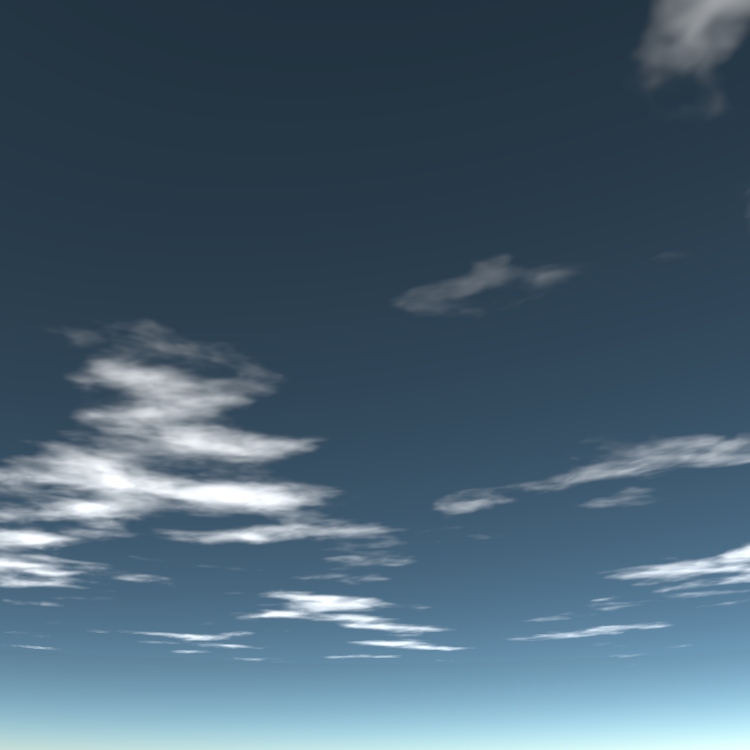
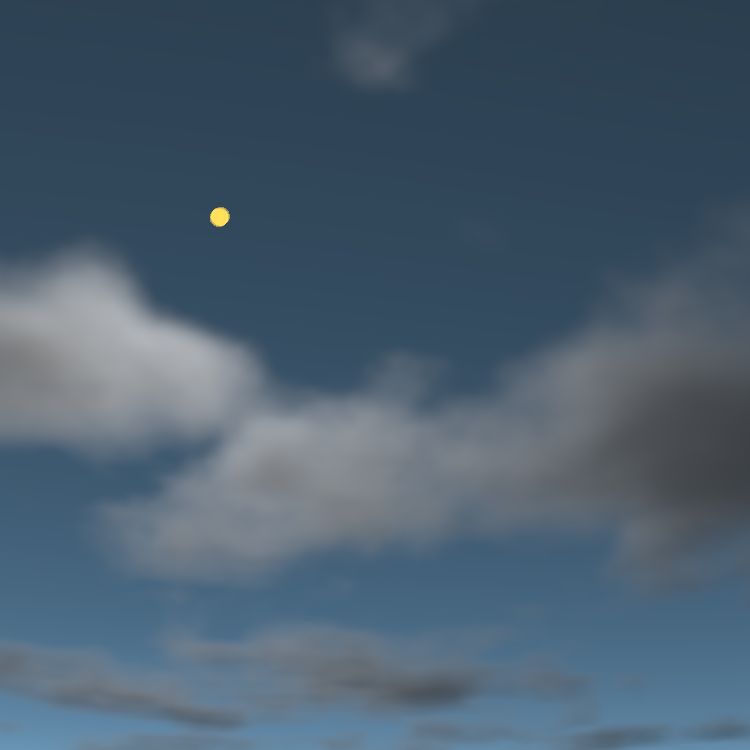
edit post

diff --git a/_posts/scene/2025-02-17-procedural.md b/_posts/scene/2025-02-17-procedural.md
@@ -112,8 +112,8 @@ Lo = ∫all_line_dx|TS dx #(该T沿着视线减弱)
 # S(p) = s(p)∫all_sphere|ρLi dv
 ```
 问题是内散射积分S中的使用的光线是什么？(甚至我们正在计算天空光线)。  
-下列给出评估它的方式，有关这一点的区别和影响，笔者不再深入研究。  
-要点是每个S中必须重新计算ro到太阳的T，这需要一条完整的子射线完成。  
+下列给出评估它的方式，有关这一点的区别和影响。笔者研究发现，该点全局照明评估成本过高。  
+这种方法是一种近似，即对准太阳投射子射线得到另一个透射率来衰减一个固定光亮，以近似S项需要的积分辐射度，因此要点是每个S中必须重新计算ro到太阳的T。  
 ```ruby
 S -> SunBase * T2(sun_dx_line); #(沿着太阳减弱)
   -> SunBase * T2(sun_dx_line) * ρ
@@ -316,6 +316,26 @@ Cumulus  堆(积)云
 一种最古老的实现是粗暴地将FBM数据映射到一个薄薄的球面上，结果是极其不真实的，并且与我们使用的其他真实技术产生严重的不协调感。  
 样本、噪声、位置全都不符合任何一种云的特征。我们至少应该拒绝这种技术并认为最根本的起点必须选择更好的"容器"来表达FBM，至少不能是平面！尽管此FBM可能只能类似地接近一种云，但这至少是合理的并且让我们感到满意的一个开始。  
 卷须云的体积可能更难，因此最终决定致力于一种简单形状云的实现。积云符合一般人对云的直觉。  
+
+相反，我们使用体积渲染一个环状空间。从技术上讲，透射必须合并背景大气，因此对Sky的调用成本会增加非常多。有时分为两个函数是有意义的。  
+```ruby
+∫all_line_dx|TS dx
+                    # Li随着深度衰减
+approximate S = βS*ρ ∫(C * T2)
+
+~= ρC ∫(T1βST2)dx
+
+# clamp((vec3(1.0) * phase * integral), vec3(0.0), vec3(1.0)) + sky * exp(-tmp_t);
+```
+<div class="x gr txac">
+  <div class="x la flex mg0">
+    <div class="x la item6-lg item12 pd0">
+      <img src="/assets/i/6-2.png">
+    </div>
+  </div>
+  <p>图3：厚度为2.0的云层在特定太阳方向上的照明</p>
+</div>
+我们看到，这种算法很慢。且位于太阳视野外的云是全黑的，尽管这是有道理的，我们的场景天空较亮，除非我们只看向太阳。如果再考虑天空的贡献将导致该算法成本过高而不可用。  
 
 ## D. 
 ## 环境光遮蔽
